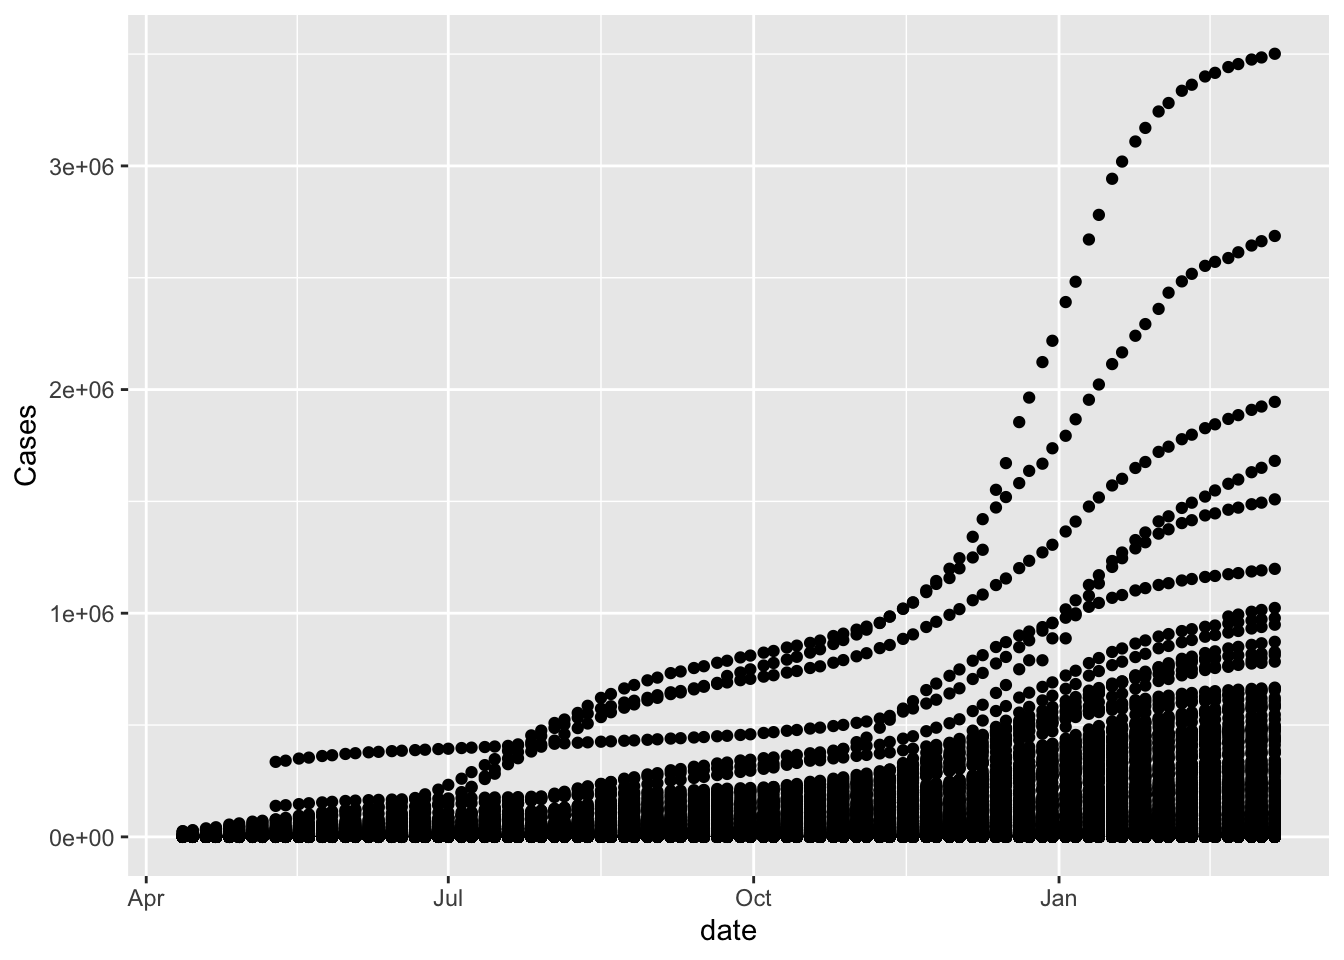
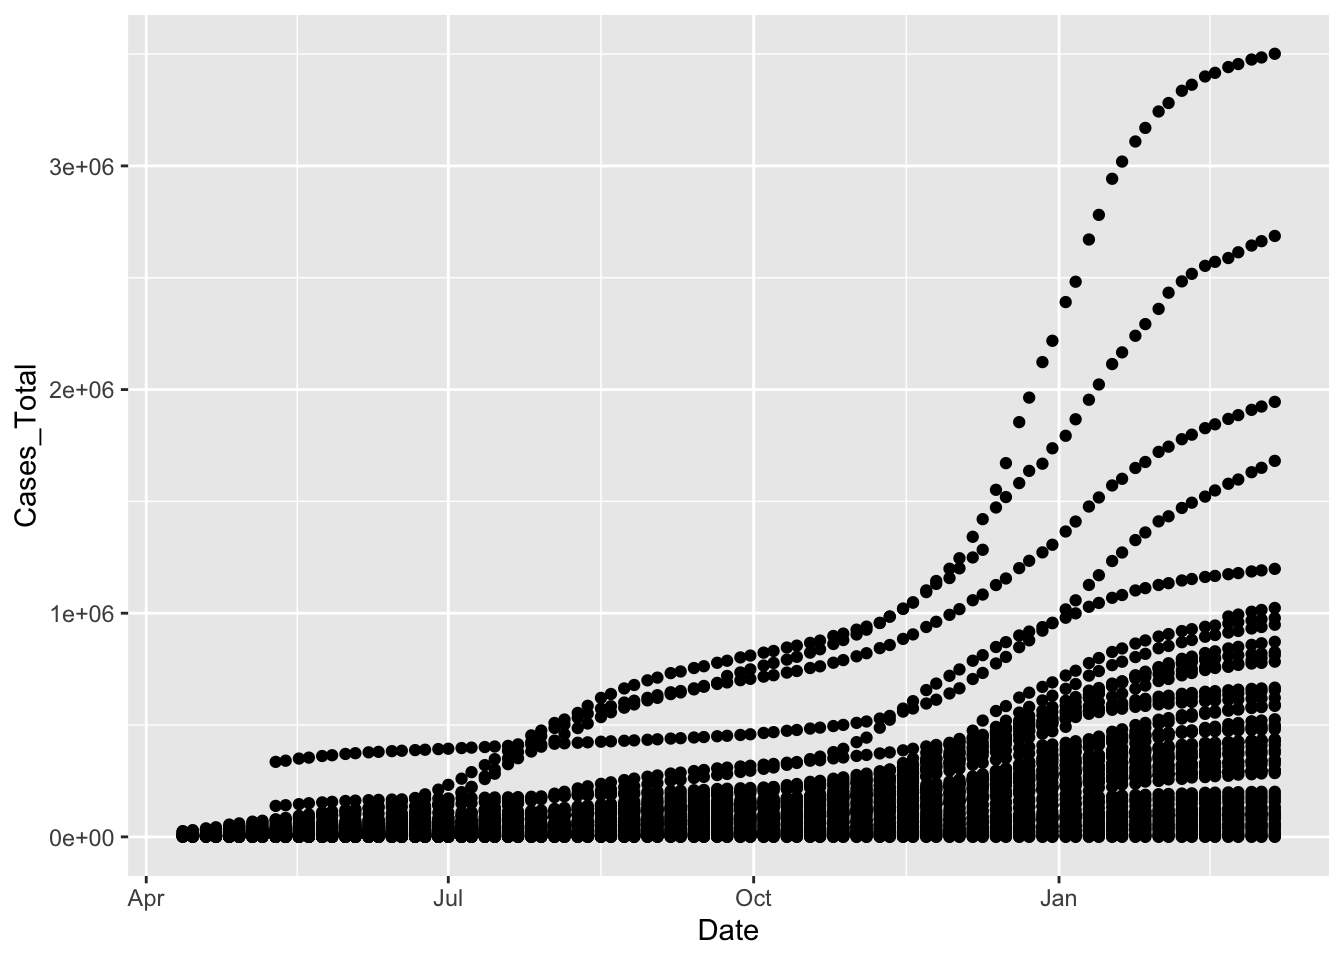
9.11

diff --git a/Week_02_Covid_Vis.html b/Week_02_Covid_Vis.html
@@ -2,11 +2,11 @@
 <html xmlns="http://www.w3.org/1999/xhtml" lang="en" xml:lang="en"><head>
 
 <meta charset="utf-8">
-<meta name="generator" content="quarto-1.3.450">
+<meta name="generator" content="quarto-1.3.353">
 
 <meta name="viewport" content="width=device-width, initial-scale=1.0, user-scalable=yes">
 
-<meta name="author" content="[[Your Name]]">
+<meta name="author" content="Shen Liu">
 <meta name="dcterms.date" content="2023-09-11">
 
 <title>Week 02: COVID Visualization Activity</title>
@@ -91,7 +91,7 @@ pre > code.sourceCode > span > a:first-child::before { text-decoration: underlin
     <div>
     <div class="quarto-title-meta-heading">Author</div>
     <div class="quarto-title-meta-contents">
-             <p><strong><code>[[</code></strong>Your Name<strong><code>]]</code></strong> </p>
+             <p>Shen Liu </p>
           </div>
   </div>
     
@@ -113,7 +113,7 @@ pre > code.sourceCode > span > a:first-child::before { text-decoration: underlin
 <div class="sourceCode cell-code" id="cb1"><pre class="sourceCode r code-with-copy"><code class="sourceCode r"><span id="cb1-1"><a href="#cb1-1" aria-hidden="true" tabindex="-1"></a><span class="fu">library</span>(tidyverse)</span></code><button title="Copy to Clipboard" class="code-copy-button"><i class="bi"></i></button></pre></div>
 <div class="cell-output cell-output-stderr">
 <pre><code>── Attaching core tidyverse packages ──────────────────────── tidyverse 2.0.0 ──
-✔ dplyr     1.1.2     ✔ readr     2.1.4
+✔ dplyr     1.1.3     ✔ readr     2.1.4
 ✔ forcats   1.0.0     ✔ stringr   1.5.0
 ✔ ggplot2   3.4.3     ✔ tibble    3.2.1
 ✔ lubridate 1.9.2     ✔ tidyr     1.3.0
@@ -132,9 +132,9 @@ pre > code.sourceCode > span > a:first-child::before { text-decoration: underlin
 </div>
 <p>I’ve include 4 different data sets. They all have the same data but have it represented in different ways. Try using the different data sets and see which ones are good for making which plots.</p>
 <div class="cell">
-<div class="sourceCode cell-code" id="cb5"><pre class="sourceCode r code-with-copy"><code class="sourceCode r"><span id="cb5-1"><a href="#cb5-1" aria-hidden="true" tabindex="-1"></a><span class="fu">ggplot</span>(covid_data_count, <span class="fu">aes</span>(<span class="at">x =</span> date, <span class="at">y =</span> Cases)) <span class="sc">+</span> <span class="fu">geom_point</span>()</span></code><button title="Copy to Clipboard" class="code-copy-button"><i class="bi"></i></button></pre></div>
+<div class="sourceCode cell-code" id="cb5"><pre class="sourceCode r code-with-copy"><code class="sourceCode r"><span id="cb5-1"><a href="#cb5-1" aria-hidden="true" tabindex="-1"></a><span class="fu">ggplot</span>(covid_data_orig, <span class="fu">aes</span>(<span class="at">x =</span> Date, <span class="at">y =</span> Cases_Total)) <span class="sc">+</span> <span class="fu">geom_point</span>()</span></code><button title="Copy to Clipboard" class="code-copy-button"><i class="bi"></i></button></pre></div>
 <div class="cell-output cell-output-stderr">
-<pre><code>Warning: Removed 1385 rows containing missing values (`geom_point()`).</code></pre>
+<pre><code>Warning: Removed 232 rows containing missing values (`geom_point()`).</code></pre>
 </div>
 <div class="cell-output-display">
 <p><img src="Week_02_Covid_Vis_files/figure-html/first_plot-1.png" class="img-fluid" width="672"></p>
